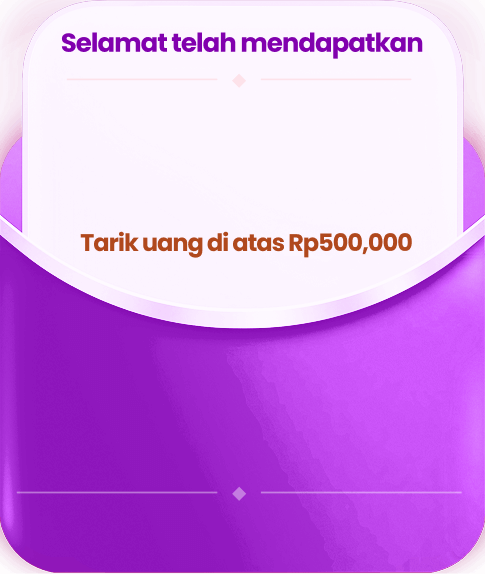
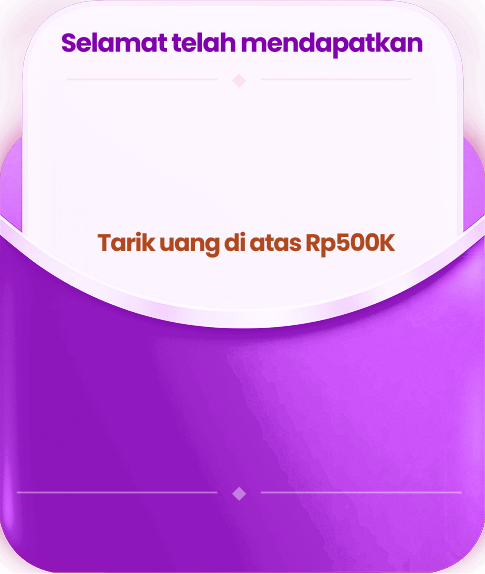
fix: [id1] Divide amounts by 1000 and add 'K' postfix

Changed region(s): [[0.1546, 0.385, 0.866, 0.4443]]

diff --git a/id1-static-v1/src/components/hotpromo/spin-lucky-wheel/EnvelopeStage.vue b/id1-static-v1/src/components/hotpromo/spin-lucky-wheel/EnvelopeStage.vue
@@ -21,13 +21,13 @@
             </span>
             <br />
             <span class="prize">
-              {{ prize.prize }}
+              {{ `${convertToCommaAmount(Number(prize.prize) / 1000)}K` }}
             </span>
           </div>
         </button>
       </div>
       <div v-else class="selected-envelope">
-        <span class="prize">{{ store.currency.value }} {{ prizeList[selectedIndex]?.prize }}</span>
+        <span class="prize">{{ store.currency.value }} {{ `${convertToCommaAmount(Number(prizeList[selectedIndex]?.prize) / 1000)}K` }}</span>
         <CommonButton class="withdraw-btn" @click="$emit('envelopeClick')">"Tarik sekarang!</CommonButton>
         <span class="remaining-time">waktu tersisa: {{ remainingTime }}</span>
       </div>
@@ -43,6 +43,7 @@ import { onUnmounted, ref } from "vue";
 import CommonButton from "./CommonButton.vue";
 import { eventapi } from "src/boot/axios";
 import { userStore } from "stores/index";
+import { convertToCommaAmount } from "@/boot/utils";
 
 defineEmits(["envelopeClick"]);
 const store = userStore();
@@ -179,10 +180,11 @@ onUnmounted(() => {
         top: 26%;
         width: 100%;
         transform: translateY(-50%);
-        font-size: 50px;
+        font-size: 30px;
         font-weight: 900;
         color: #8100ae;
         text-align: center;
+        letter-spacing: -1px;
       }
 
       .withdraw-btn {
@@ -240,7 +242,7 @@ onUnmounted(() => {
 
       .selected-envelope {
         .prize {
-          font-size: 30px;
+          font-size: 26px;
         }
         .remaining-time {
           font-size: 4vw;

diff --git a/id1-static-v1/src/components/hotpromo/spin-lucky-wheel/CashOutPopup.vue b/id1-static-v1/src/components/hotpromo/spin-lucky-wheel/CashOutPopup.vue
@@ -111,7 +111,7 @@ const handleDialogShow = () => {
 @media screen and (max-width: 500px) {
     .cash-out {
         .prize {
-            font-size: 11vw;
+            font-size: 26px;
         }
     }
 }
